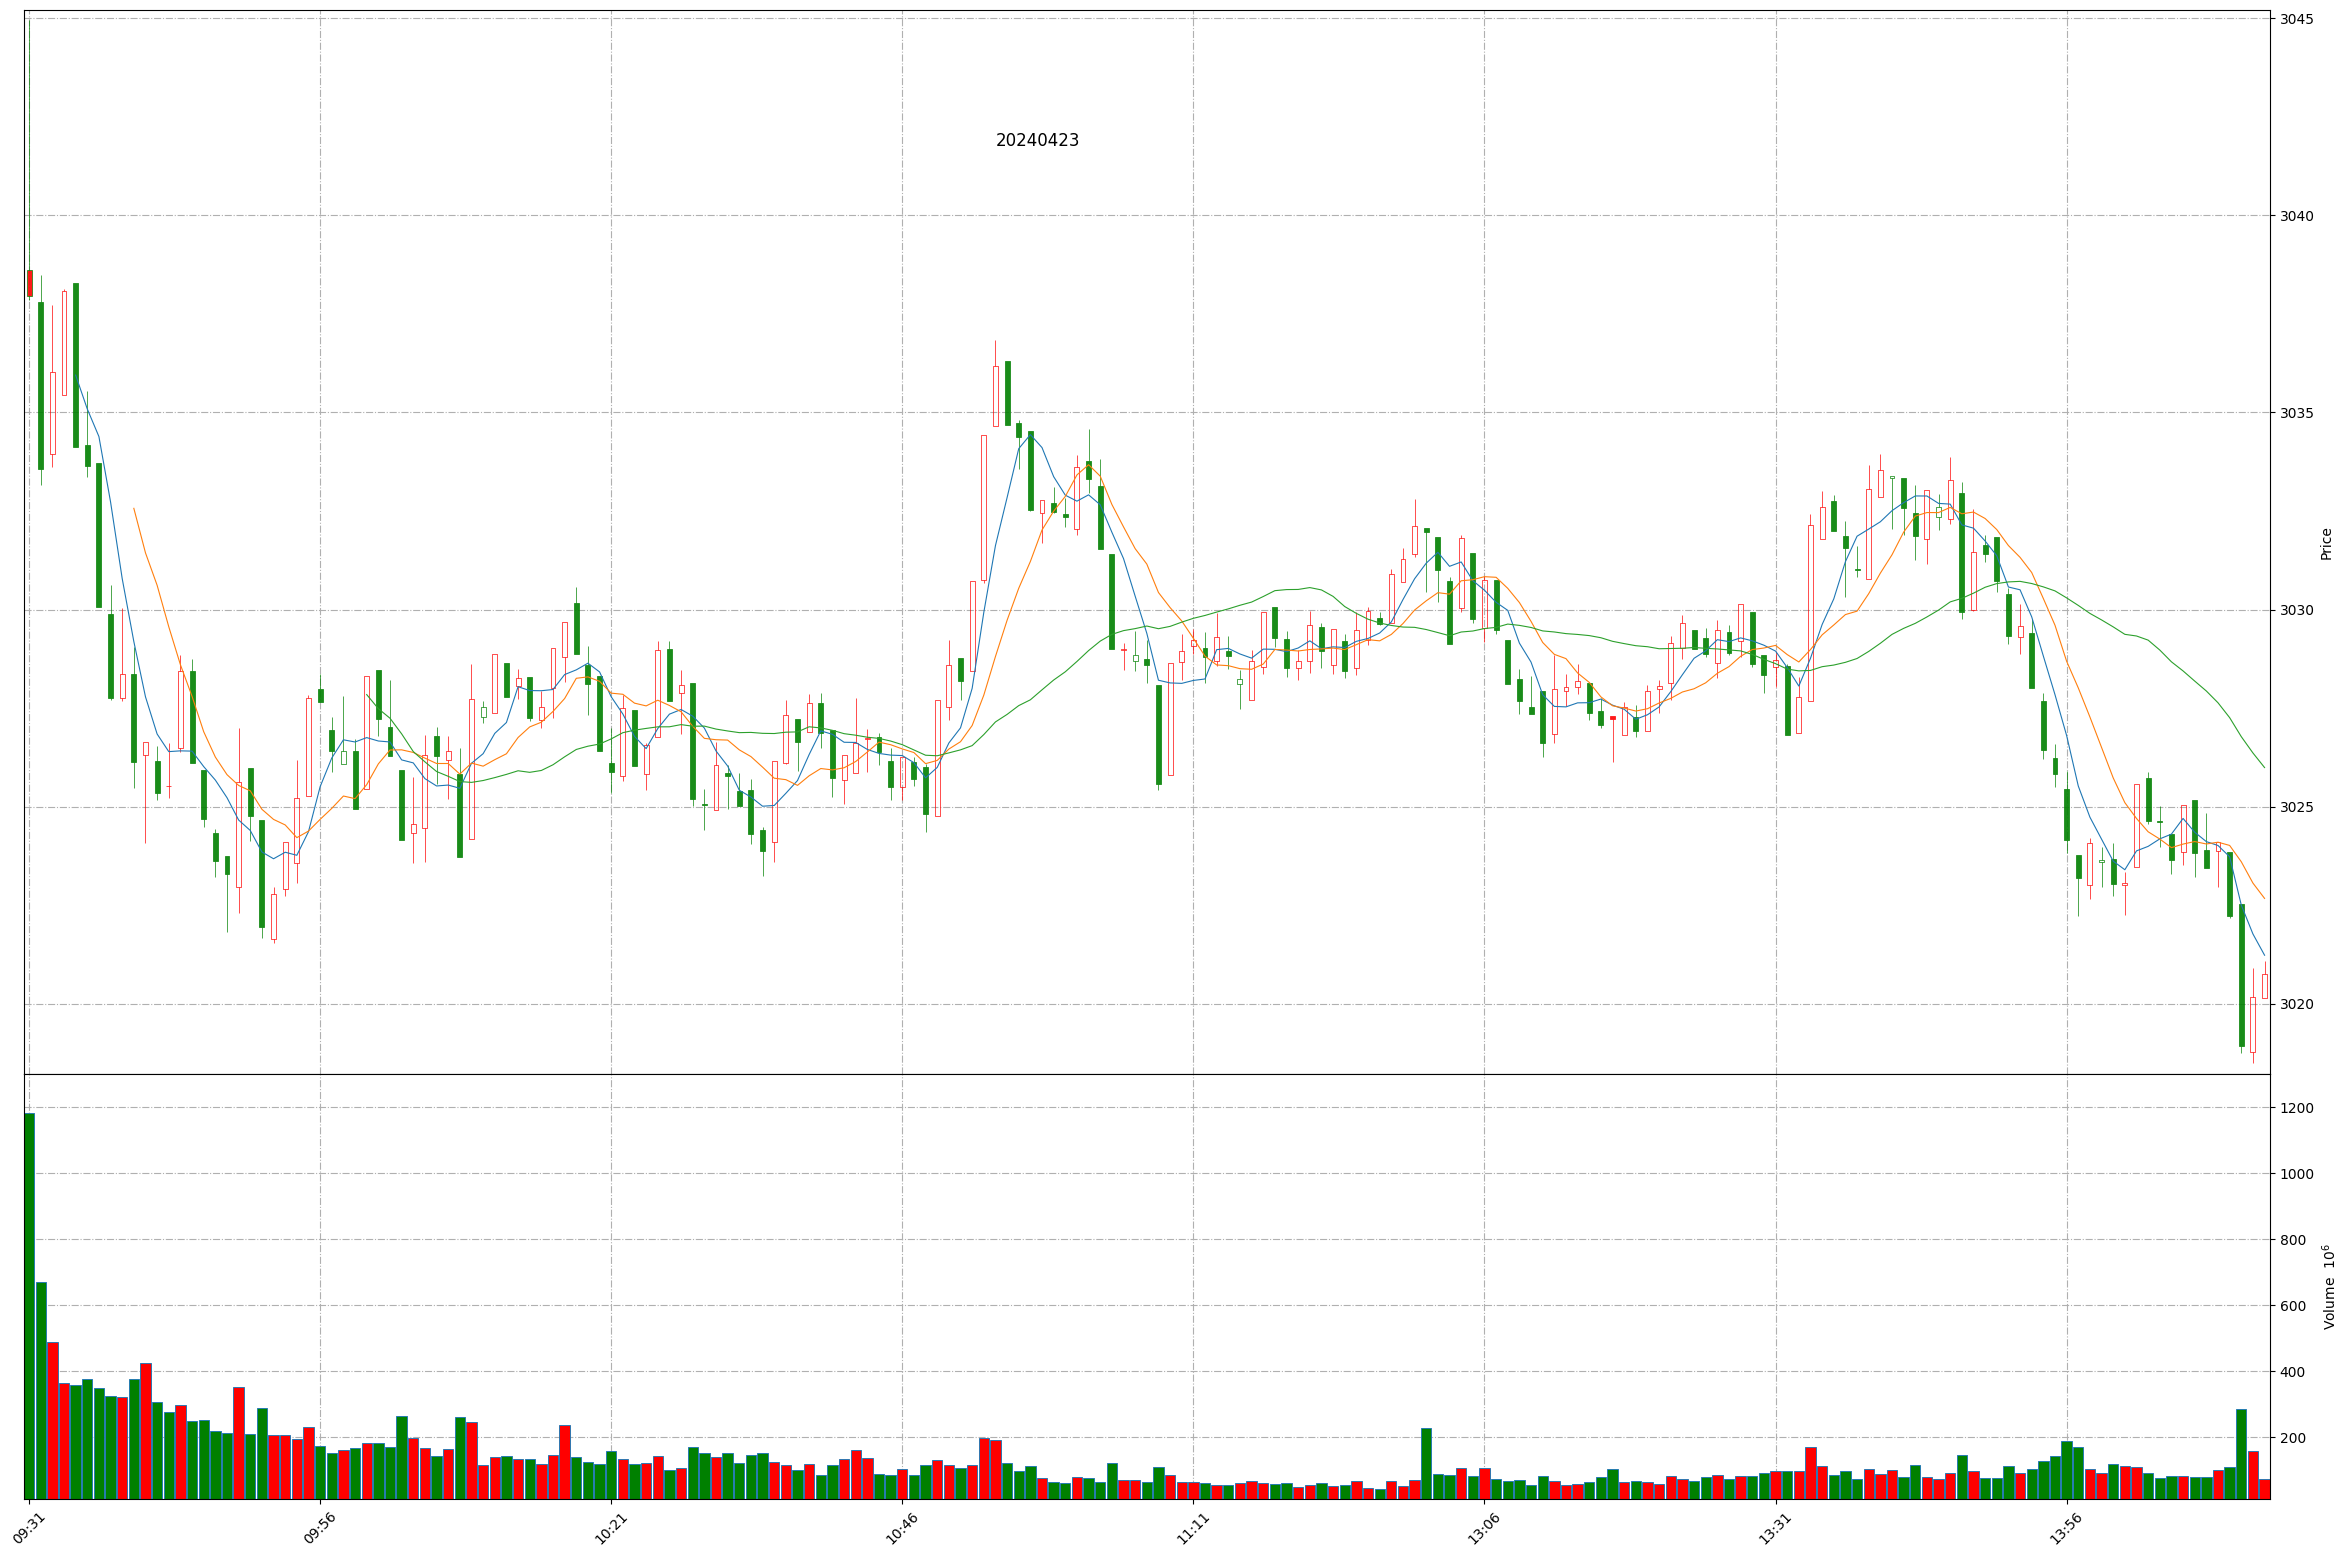
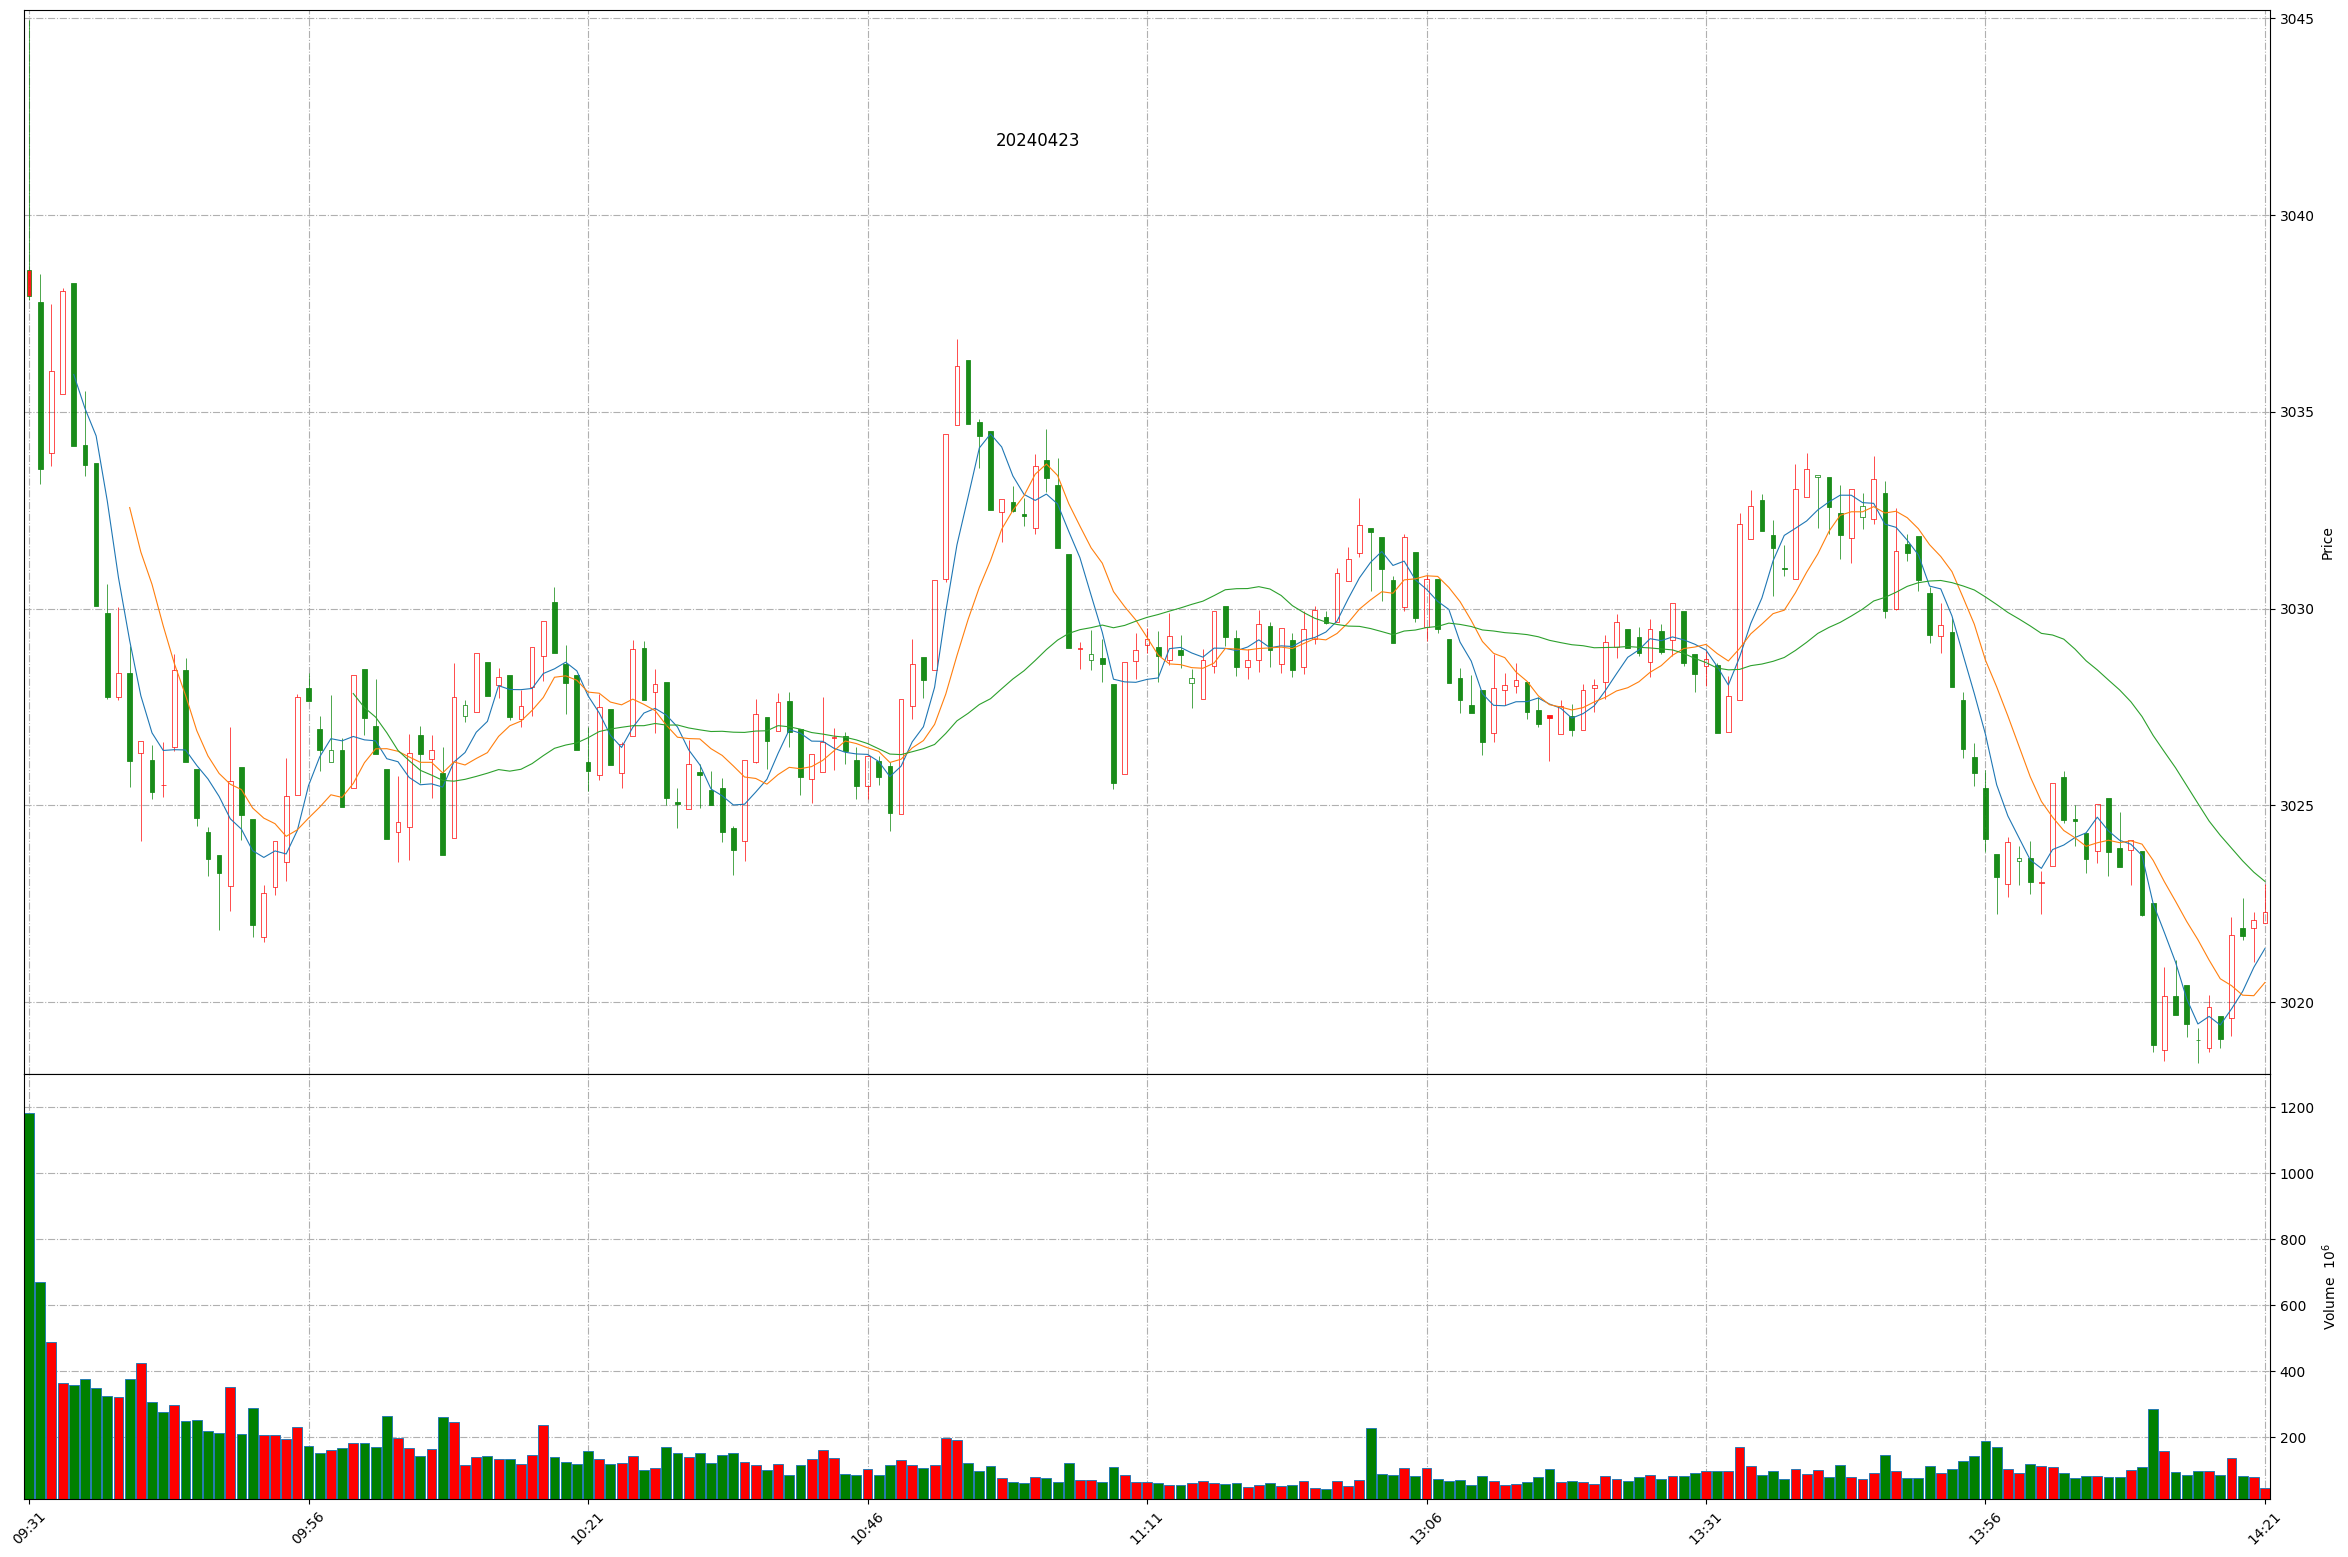
Github action update at 2024-04-23 14:20:48.

Changed region(s): [[0.0311, 0.2158, 0.9638, 0.6782], [0.0, 0.8632, 0.9638, 0.9865], [0.0, 0.185, 0.0311, 0.2466]]

diff --git a/README.md b/README.md
@@ -1,11 +1,11 @@
 
 # Daily-A-share-market-quotes 每日 A 股指数（5min 更新）- 20240423
 
-### 上证指数 20240423 14:12
+### 上证指数 20240423 14:20
 ![](./fig/2024/4/20240423-sh000001.png)
 
-### 深证成指 20240423 14:12
+### 深证成指 20240423 14:20
 ![](./fig/2024/4/20240423-sz399001.png)
 
-### 北证50 20240423 14:12
+### 北证50 20240423 14:20
 ![](./fig/2024/4/20240423-bj899050.png)
